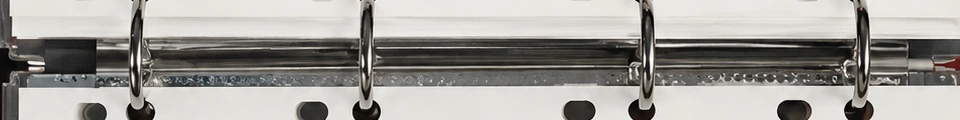
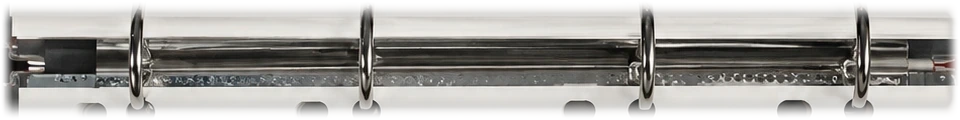
Three targeted fixes on the locked binder baseline
No layout/structure changes — same approved desktop spread and mobile
portrait binder throughout.

1. Logo: "RONI/Grifel" -> "RONI Grifel" (slash removed) everywhere the
   brand mark appears — both binder layouts and every subpage header.
   Typography, size, color and position untouched.

2. Left category menu (AI Campaigns, Editorial, …) now uses the same
   typography as the top nav line (grotesk, 600 weight, uppercase,
   0.1em tracking) instead of the serif style it had. Font-size nudged
   down slightly on both layouts so the wider tracked/uppercase text
   still fits the existing column width on one line without wrapping
   or overflowing — same layout, same spacing, just the type style.

3. Ring hardware no longer reads as a pasted-on rectangle: the ring
   band/spine images now have alpha-feathered edges (with a subtle
   built-in contact-shadow gradient right at the fade) instead of a
   hard crop boundary, plus a CSS drop-shadow that follows the actual
   ring silhouette. They blend into the paper on both sides and read
   as a physically connected binder mechanism instead of an overlay.

Changed region(s): [[0.0, 0.0, 1.0, 1.0]]

diff --git a/index.html b/index.html
@@ -36,7 +36,7 @@
 
       <p class="bh-el label-portfolio t-label-tiny">PORTFOLIO<br>SINCE 2024</p>
 
-      <h1 class="bh-el masthead-el masthead">RONI<em>/Grifel</em></h1>
+      <h1 class="bh-el masthead-el masthead">RONI <em>Grifel</em></h1>
 
       <p class="bh-el discipline-el discipline-line">AI&nbsp;&nbsp;/&nbsp;&nbsp;CREATIVE DIRECTION&nbsp;&nbsp;/&nbsp;&nbsp;VISUAL CONTENT&nbsp;&nbsp;/&nbsp;&nbsp;FASHION</p>
 
@@ -143,7 +143,7 @@
         <a class="see-more" href="work.html">SEE MORE <span aria-hidden="true">&#8599;</span></a>
       </div>
 
-      <h1 class="spread-masthead masthead">RONI<em>/Grifel</em></h1>
+      <h1 class="spread-masthead masthead">RONI <em>Grifel</em></h1>
       <p class="discipline-line">AI&nbsp;&nbsp;/&nbsp;&nbsp;CREATIVE DIRECTION&nbsp;&nbsp;/&nbsp;&nbsp;VISUAL CONTENT&nbsp;&nbsp;/&nbsp;&nbsp;FASHION</p>
 
       <div class="spread-nav-and-campaign">

diff --git a/css/binder-hero.css b/css/binder-hero.css
@@ -79,6 +79,7 @@
   width: 100%;
   height: auto;
   display: block;
+  filter: drop-shadow(0 3px 5px rgba(0, 0, 0, 0.28));
 }
 
 /* absolutely-positioned content, percentage coordinates relative to
@@ -163,7 +164,7 @@
 .binder-stage .masthead { font-size: 8.333cqw; }
 .binder-stage .discipline-line { font-size: 0.983cqw; }
 .binder-stage .see-more { font-size: 1.03cqw; }
-.binder-stage .nav-item__label { font-size: 1.592cqw; }
+.binder-stage .nav-item__label { font-size: 1.1cqw; }
 .binder-stage .nav-item__num { font-size: 0.843cqw; }
 .binder-stage .heading-condensed { font-size: 5.15cqw; line-height: 0.764; }
 .binder-stage .caption-title { font-size: 0.89cqw; }

diff --git a/css/binder-desktop.css b/css/binder-desktop.css
@@ -69,8 +69,9 @@
 .spread-spine img {
   width: 100%;
   height: 100%;
-  object-fit: cover;
+  object-fit: contain;
   display: block;
+  filter: drop-shadow(0 0 5px rgba(0, 0, 0, 0.25));
 }
 
 /* ---- left page: identity + nav + featured campaign + selected work ---- */
@@ -124,7 +125,8 @@
 }
 
 .binder-desktop .nav-item__label {
-  font-size: 13px;
+  font-size: 12px;
+  white-space: nowrap;
 }
 
 .binder-desktop .nav-item__num {

diff --git a/campaigns.html b/campaigns.html
@@ -17,7 +17,7 @@
 
 <header class="site-header">
   <div class="wrap site-header__inner">
-    <a class="site-logo" href="index.html">RONI<em>/Grifel</em></a>
+    <a class="site-logo" href="index.html">RONI <em>Grifel</em></a>
     <nav class="site-nav">
       <a href="campaigns.html" aria-current="page">Campaigns</a>
       <a href="fashion.html">Fashion</a>

diff --git a/fashion.html b/fashion.html
@@ -17,7 +17,7 @@
 
 <header class="site-header">
   <div class="wrap site-header__inner">
-    <a class="site-logo" href="index.html">RONI<em>/Grifel</em></a>
+    <a class="site-logo" href="index.html">RONI <em>Grifel</em></a>
     <nav class="site-nav">
       <a href="campaigns.html">Campaigns</a>
       <a href="fashion.html" aria-current="page">Fashion</a>

diff --git a/404.html b/404.html
@@ -15,7 +15,7 @@
 
 <header class="site-header">
   <div class="wrap site-header__inner">
-    <a class="site-logo" href="index.html">RONI<em>/Grifel</em></a>
+    <a class="site-logo" href="index.html">RONI <em>Grifel</em></a>
     <nav class="site-nav">
       <a href="campaigns.html">Campaigns</a>
       <a href="fashion.html">Fashion</a>

diff --git a/about.html b/about.html
@@ -25,7 +25,7 @@
 
 <header class="site-header">
   <div class="wrap site-header__inner">
-    <a class="site-logo" href="index.html">RONI<em>/Grifel</em></a>
+    <a class="site-logo" href="index.html">RONI <em>Grifel</em></a>
     <nav class="site-nav">
       <a href="campaigns.html">Campaigns</a>
       <a href="fashion.html">Fashion</a>

diff --git a/concepts.html b/concepts.html
@@ -17,7 +17,7 @@
 
 <header class="site-header">
   <div class="wrap site-header__inner">
-    <a class="site-logo" href="index.html">RONI<em>/Grifel</em></a>
+    <a class="site-logo" href="index.html">RONI <em>Grifel</em></a>
     <nav class="site-nav">
       <a href="campaigns.html">Campaigns</a>
       <a href="fashion.html">Fashion</a>

diff --git a/contact.html b/contact.html
@@ -17,7 +17,7 @@
 
 <header class="site-header">
   <div class="wrap site-header__inner">
-    <a class="site-logo" href="index.html">RONI<em>/Grifel</em></a>
+    <a class="site-logo" href="index.html">RONI <em>Grifel</em></a>
     <nav class="site-nav">
       <a href="campaigns.html">Campaigns</a>
       <a href="fashion.html">Fashion</a>

diff --git a/products.html b/products.html
@@ -17,7 +17,7 @@
 
 <header class="site-header">
   <div class="wrap site-header__inner">
-    <a class="site-logo" href="index.html">RONI<em>/Grifel</em></a>
+    <a class="site-logo" href="index.html">RONI <em>Grifel</em></a>
     <nav class="site-nav">
       <a href="campaigns.html">Campaigns</a>
       <a href="fashion.html">Fashion</a>

diff --git a/work.html b/work.html
@@ -16,7 +16,7 @@
 
 <header class="site-header">
   <div class="wrap site-header__inner">
-    <a class="site-logo" href="index.html">RONI<em>/Grifel</em></a>
+    <a class="site-logo" href="index.html">RONI <em>Grifel</em></a>
     <nav class="site-nav">
       <a href="campaigns.html">Campaigns</a>
       <a href="fashion.html">Fashion</a>

diff --git a/css/typography.css b/css/typography.css
@@ -50,9 +50,11 @@
 }
 
 .nav-item__label {
-  font-family: var(--font-serif);
+  font-family: var(--font-grotesk);
   font-size: 17px;
-  font-weight: 500;
+  font-weight: 600;
+  letter-spacing: 0.1em;
+  text-transform: uppercase;
   color: var(--c-ink);
   line-height: 1;
 }
